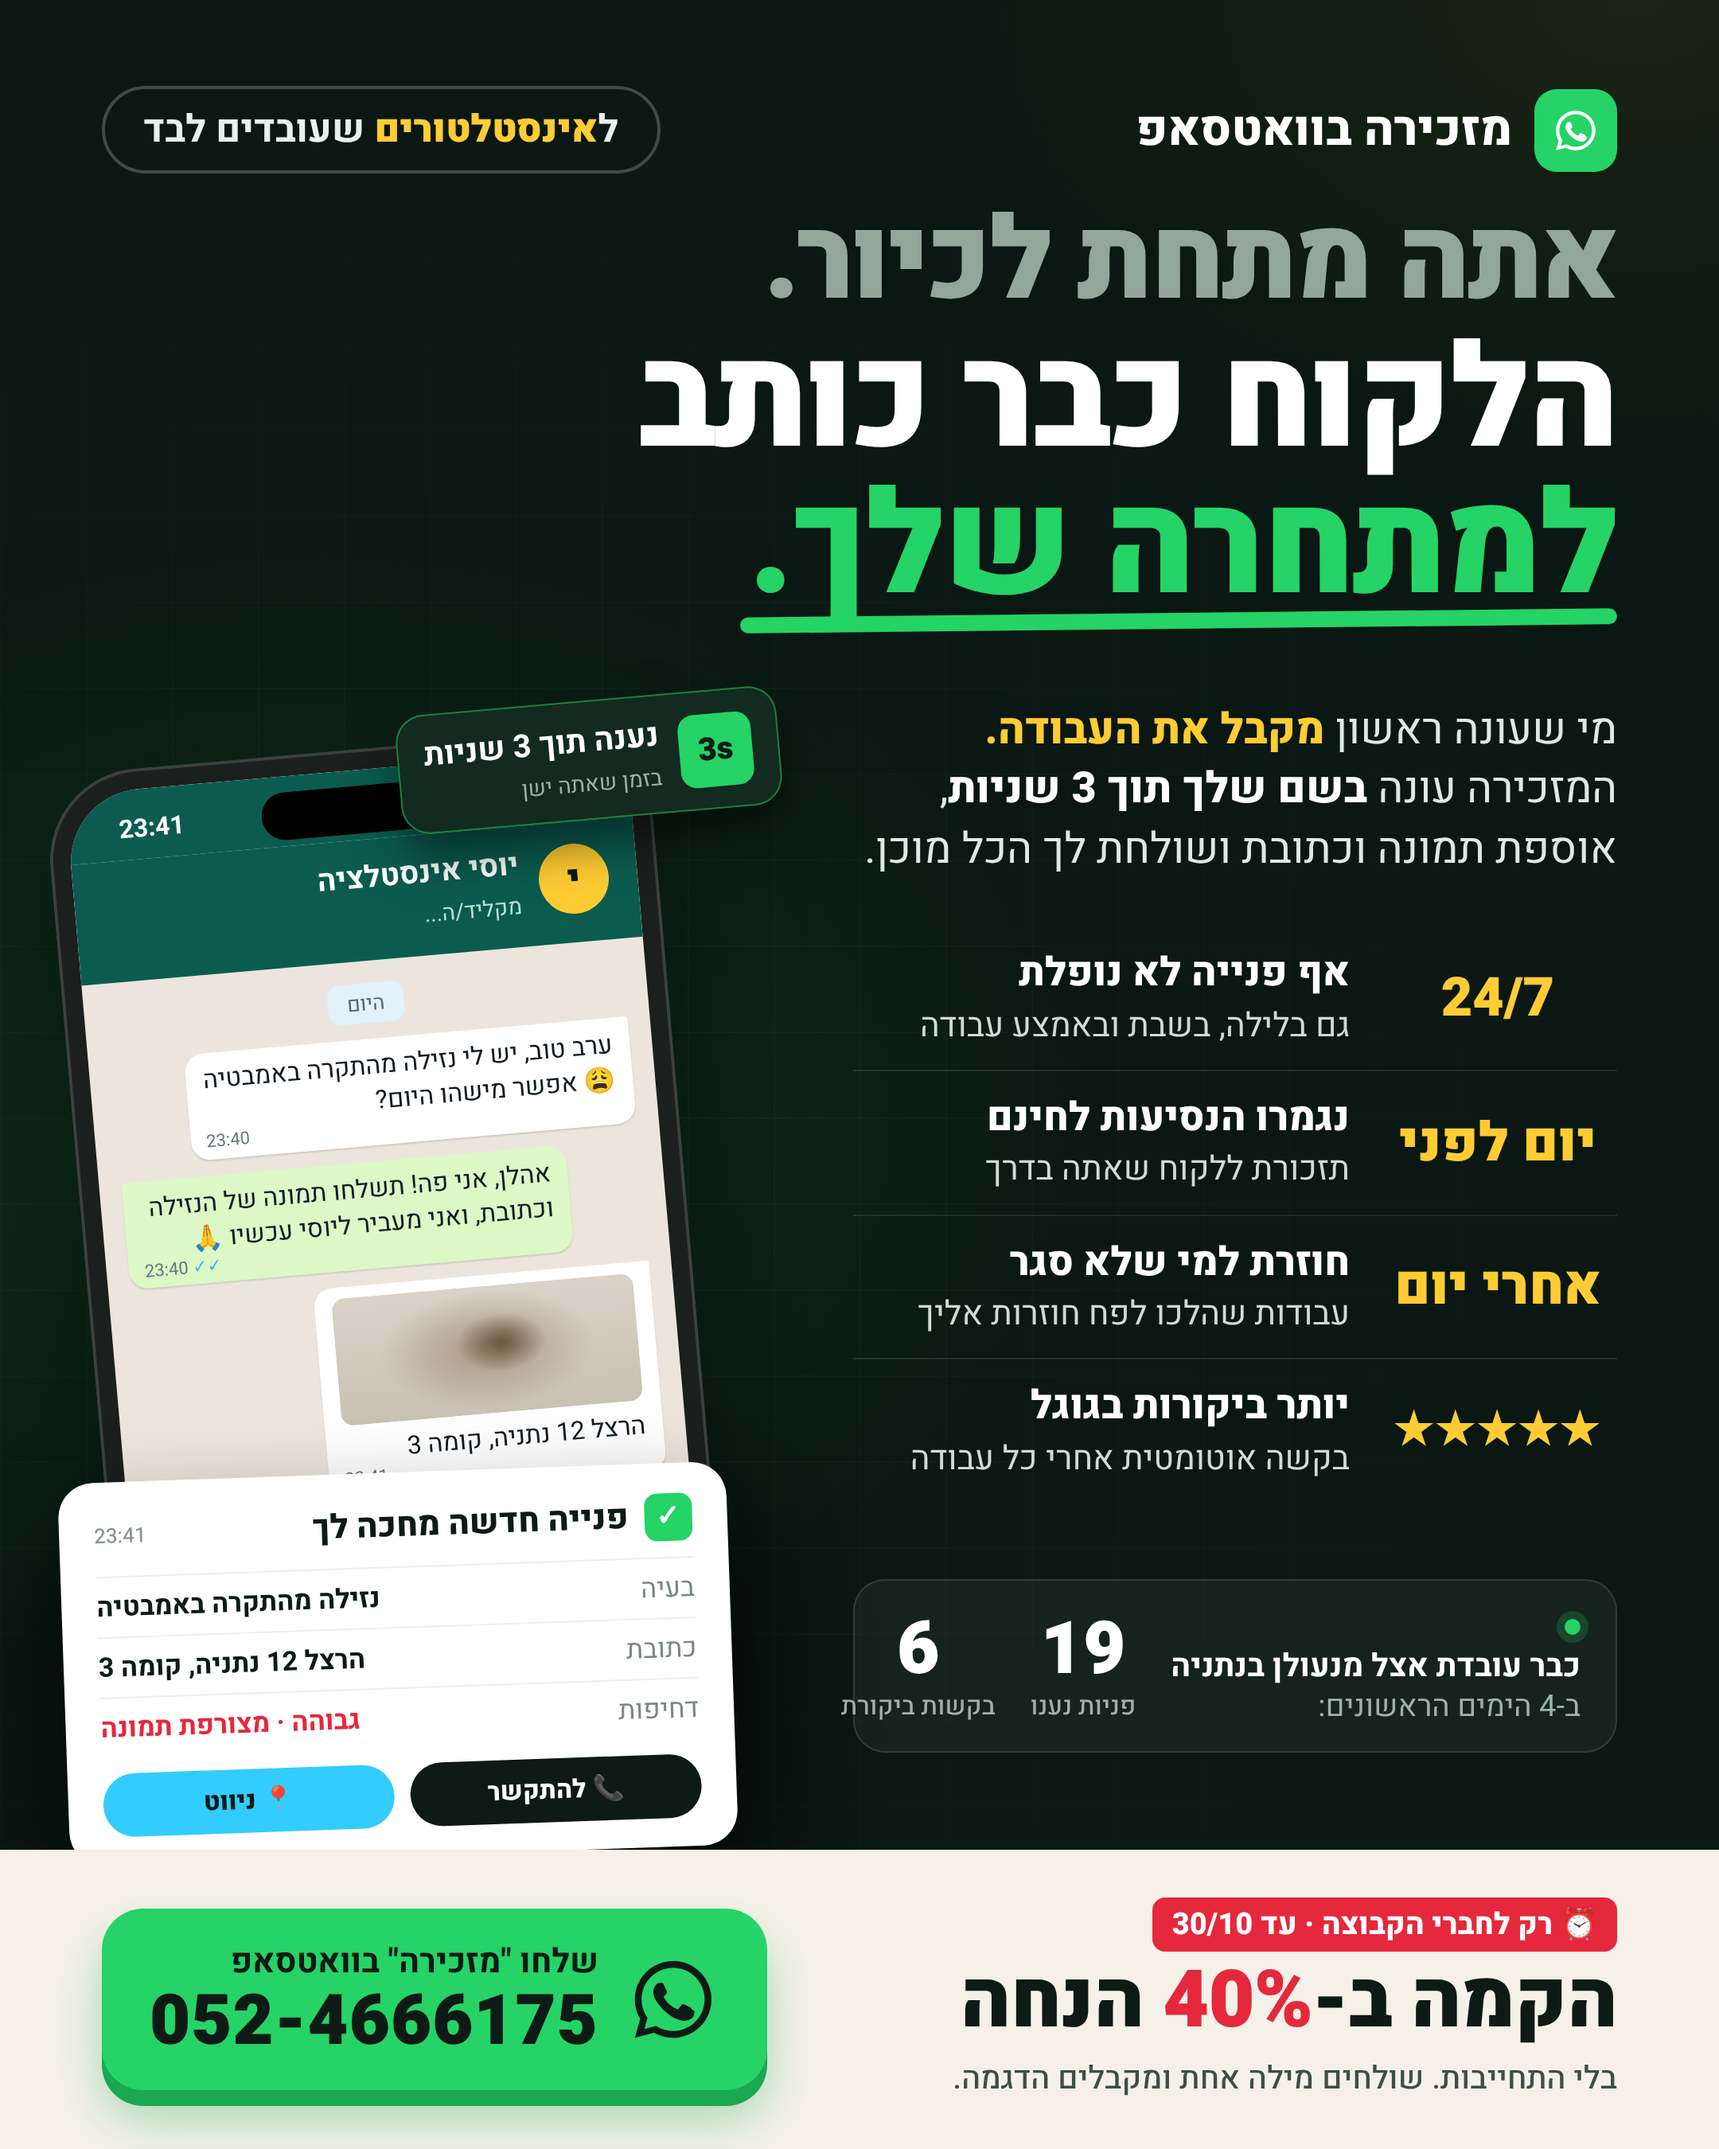
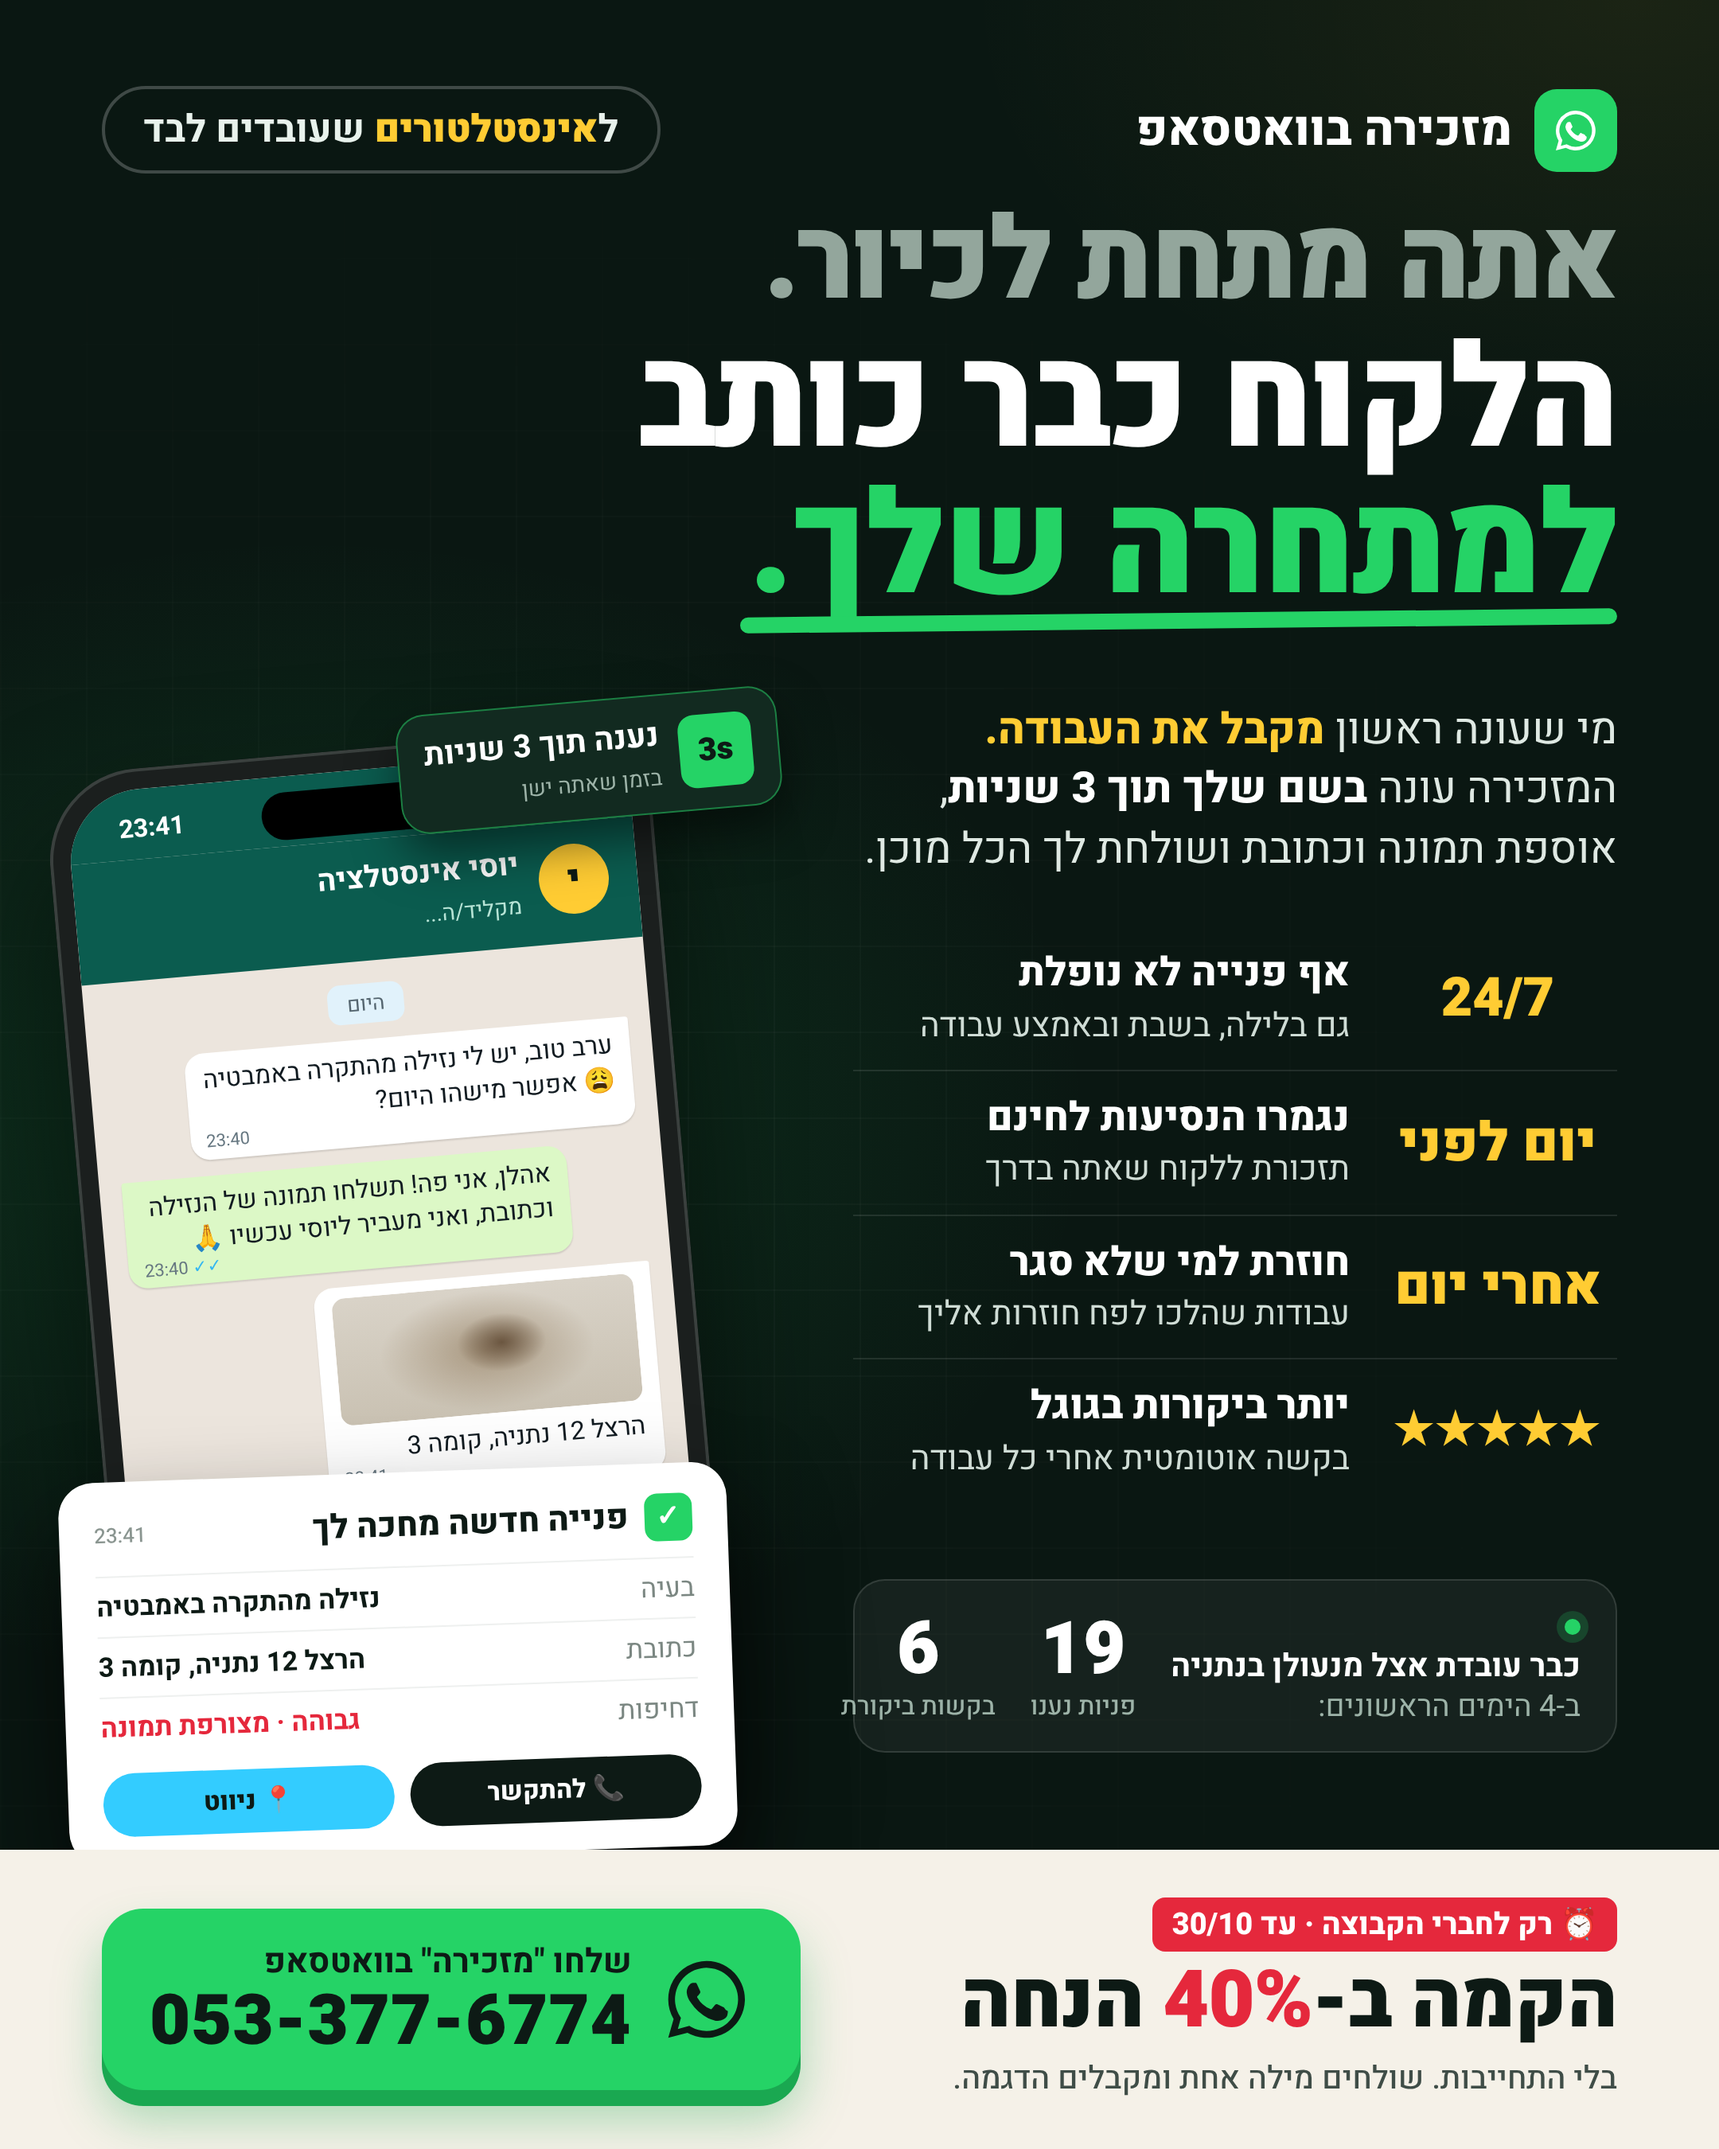
Ad: switch WhatsApp number to 053-377-6774
Claude-Session: https://claude.ai/code/session_01Vz5R2XMsDRnvQiQuHN11dP

Changed region(s): [[0.1241, 0.8711, 0.4963, 0.9956]]

diff --git a/ads/whatsapp-secretary/ad.html b/ads/whatsapp-secretary/ad.html
@@ -169,7 +169,7 @@
   </div>
   <div class="cta">
     <svg width="58" height="58" viewBox="0 0 24 24" fill="#0d1a15"><path d="M12 2a10 10 0 0 0-8.6 15.1L2 22l5-1.3A10 10 0 1 0 12 2Zm0 18.2a8.2 8.2 0 0 1-4.2-1.1l-.3-.2-3 .8.8-2.9-.2-.3A8.2 8.2 0 1 1 12 20.2Zm4.5-6.1c-.2-.1-1.5-.7-1.7-.8-.2-.1-.4-.1-.6.1l-.8 1c-.1.2-.3.2-.5.1a6.7 6.7 0 0 1-3.3-2.9c-.3-.4.2-.4.7-1.3.1-.2 0-.3 0-.4l-.8-1.8c-.2-.5-.4-.4-.6-.4h-.5a1 1 0 0 0-.7.3 3 3 0 0 0-.9 2.2 5.2 5.2 0 0 0 1.1 2.7 11.8 11.8 0 0 0 4.5 4c1.7.7 2.4.8 3.2.6.5-.1 1.5-.6 1.7-1.2.2-.6.2-1.1.2-1.2-.1-.1-.2-.2-.5-.3Z"/></svg>
-    <div class="tx">שלחו "מזכירה" בוואטסאפ<b>052-4666175</b></div>
+    <div class="tx">שלחו "מזכירה" בוואטסאפ<b>053-377-6774</b></div>
   </div>
 </div>
 
